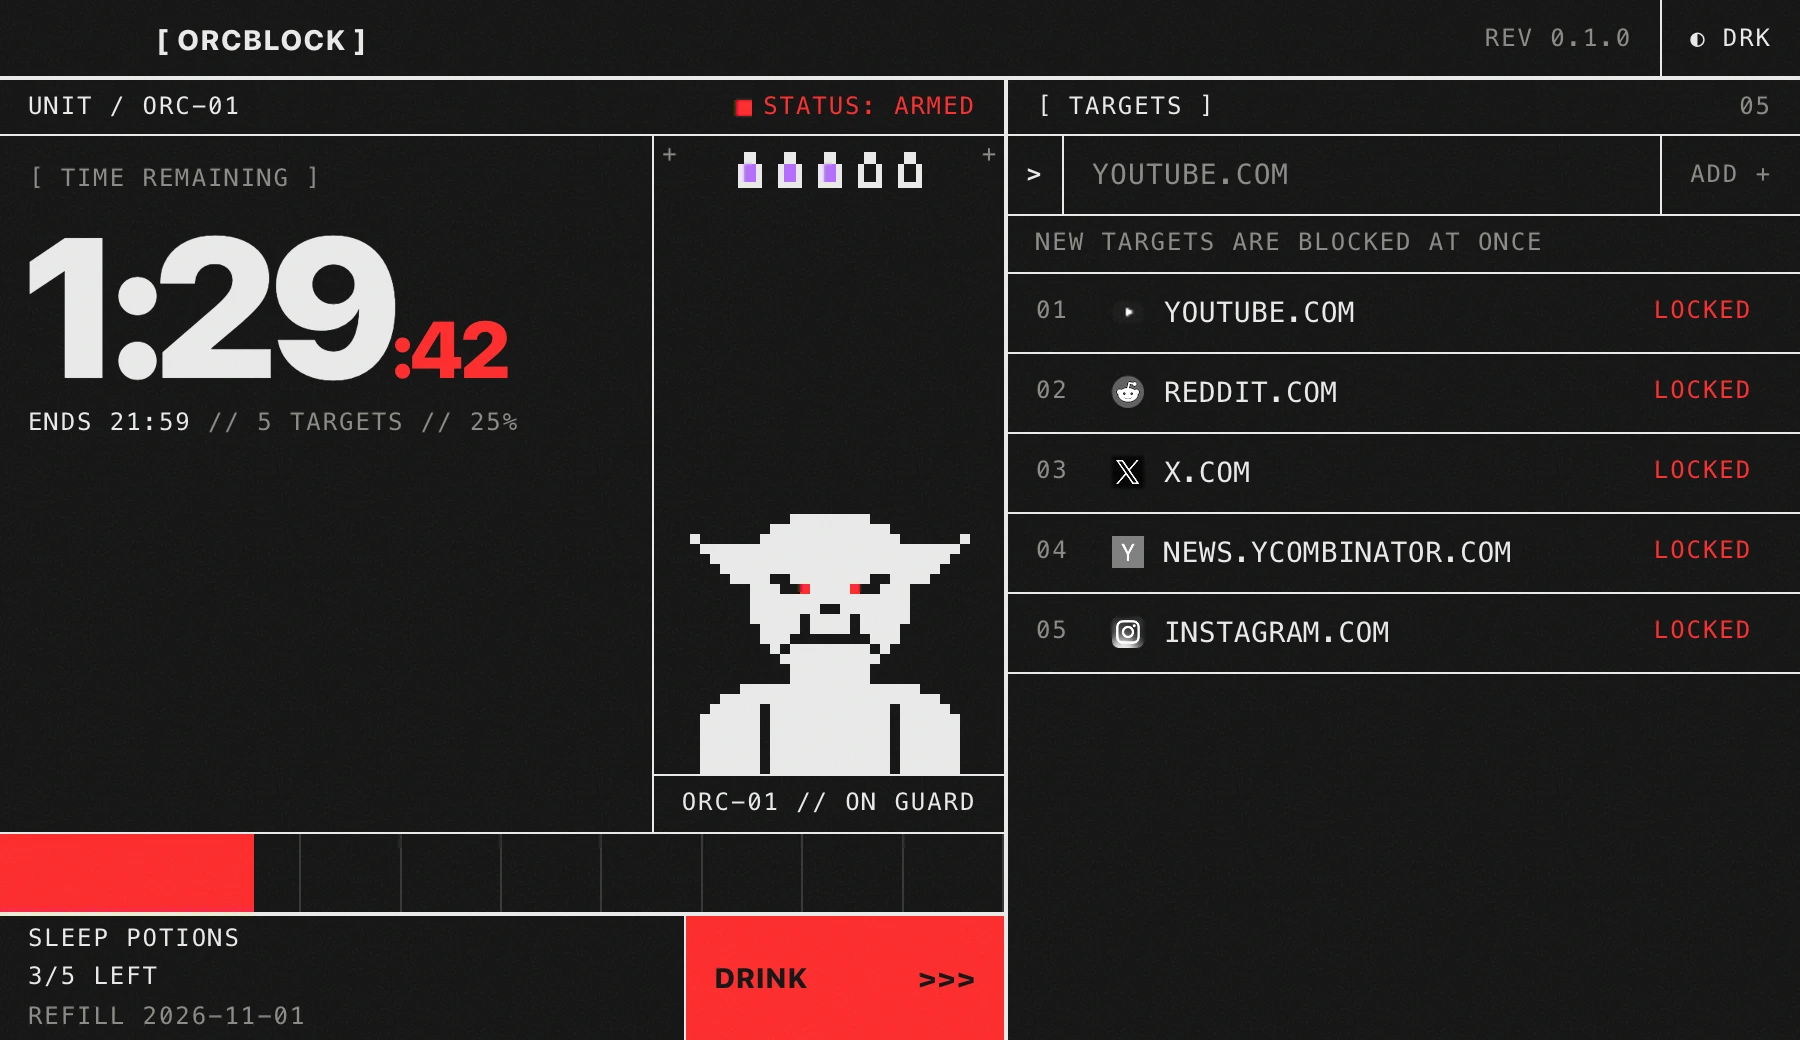
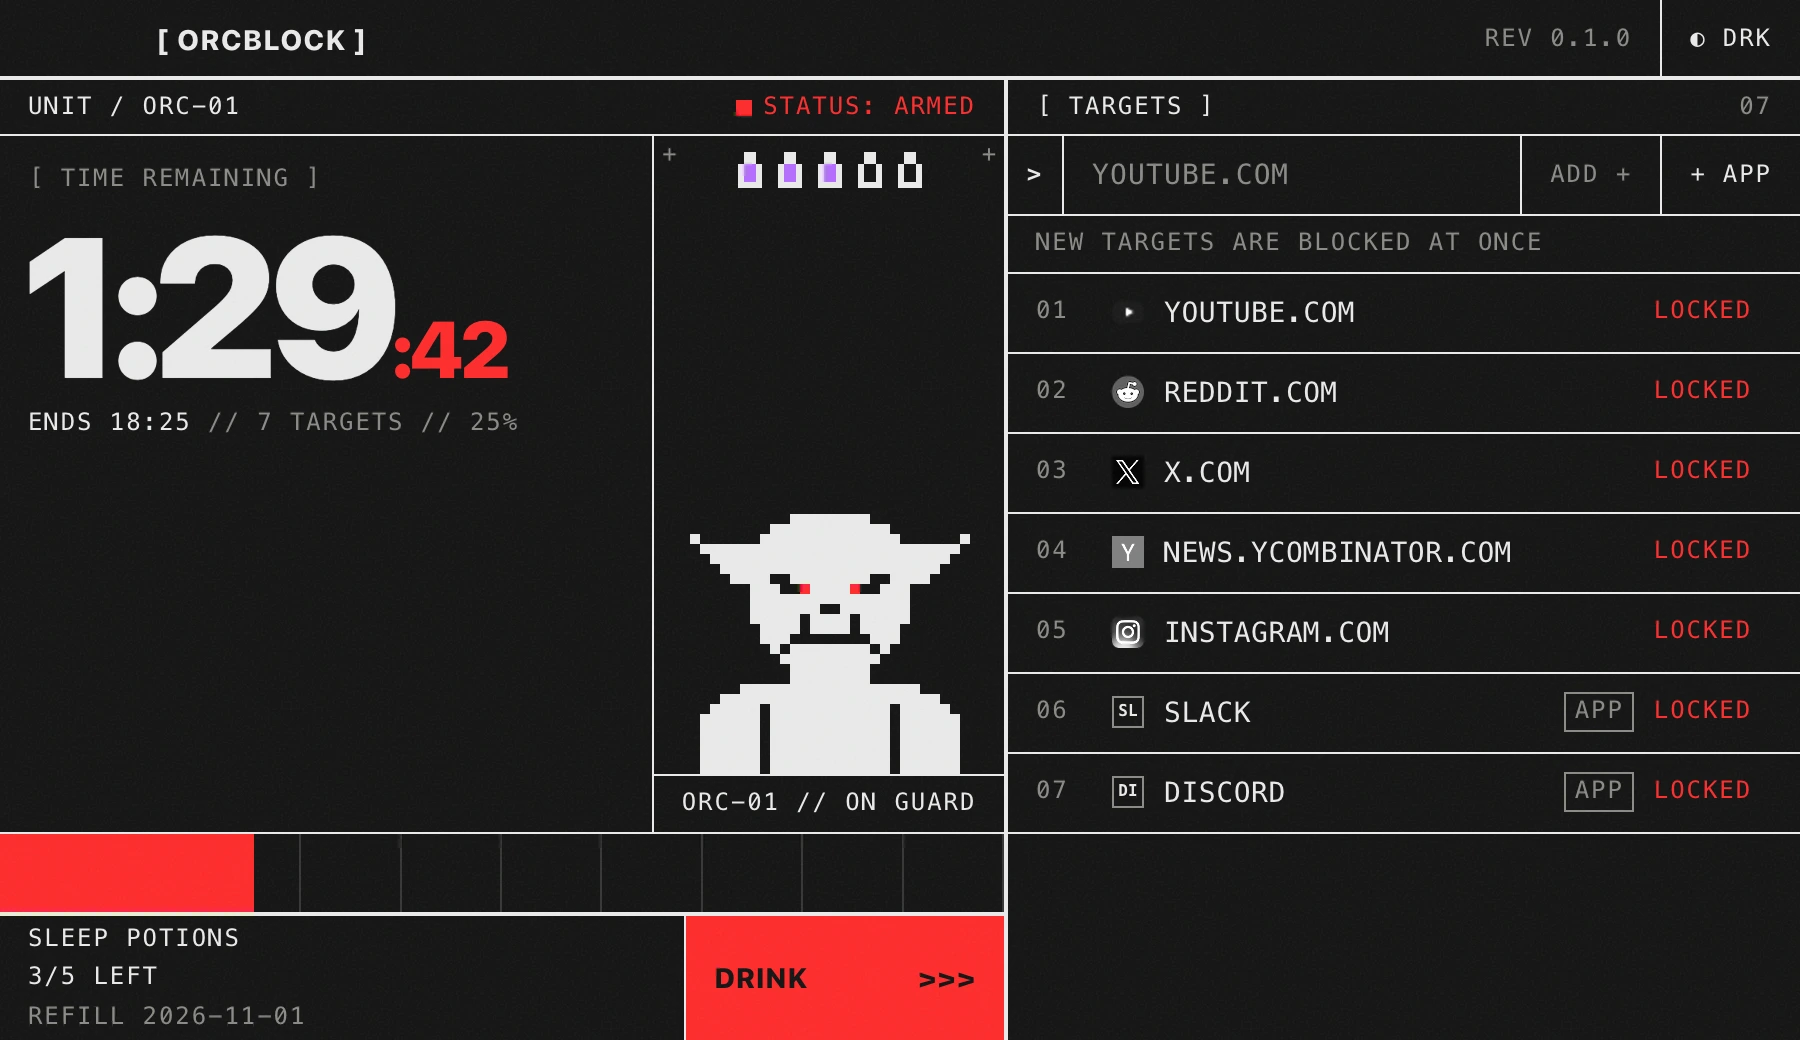
feat(ui): mention apps on the website
The site still said it blocks websites only. The copy, the page meta and
the screenshots now show apps on the list too.

diff --git a/website/index.html b/website/index.html
@@ -5,16 +5,16 @@
     <meta name="viewport" content="width=device-width, initial-scale=1.0" />
     <meta name="theme-color" content="#f4f4f0" />
     <script src="/theme.js"></script>
-    <title>OrcBlock: a website blocker you can't talk your way out of</title>
+    <title>OrcBlock: a site and app blocker you can't talk your way out of</title>
     <meta
       name="description"
-      content="Pick the sites, pick the time, and an orc stands guard until it's over. Free website blocker for macOS. The only way out early: one of five sleep potions a month."
+      content="Pick the sites and apps, pick the time, and an orc stands guard until it's over. Free site and app blocker for macOS. The only way out early: one of five sleep potions a month."
     />
     <meta property="og:type" content="website" />
     <meta property="og:title" content="OrcBlock" />
     <meta
       property="og:description"
-      content="A website blocker for macOS that you can't talk your way out of."
+      content="A site and app blocker for macOS that you can't talk your way out of."
     />
     <link rel="icon" type="image/png" sizes="32x32" href="../app/src-tauri/icons/32x32.png" />
     <link rel="apple-touch-icon" href="../app/src-tauri/icons/128x128@2x.png" />
@@ -23,7 +23,7 @@
     <div id="site"></div>
     <noscript>
       <p>
-        OrcBlock is a website blocker for macOS.
+        OrcBlock is a site and app blocker for macOS.
         <a href="https://github.com/orcrobert/orcblock/releases/latest/download/OrcBlock.dmg"
           >Download for macOS</a
         >

diff --git a/website/src/components/HowItWorks.svelte b/website/src/components/HowItWorks.svelte
@@ -4,8 +4,8 @@
 
   const STEPS = [
     {
-      title: "List the sites",
-      body: "Paste a link or type a name. A YouTube video link becomes youtube.com, and every corner of it is covered.",
+      title: "List the sites and apps",
+      body: "Paste a link or type a name. A YouTube video link becomes youtube.com, and every corner of it is covered. Apps come from a list of what's on your Mac.",
     },
     {
       title: "Set the timer",
@@ -13,11 +13,11 @@
     },
     {
       title: "The orc stands guard",
-      body: "The sites stop loading in every browser. Close the app, quit it, restart your Mac: the block is still there when you come back.",
+      body: "The sites stop loading in every browser, and the apps close the moment they open. Close OrcBlock, quit it, restart your Mac: the block is still there when you come back.",
     },
     {
       title: "Wait it out",
-      body: "When the timer hits zero the orc nods off and your sites come back on their own. Nothing to remember to switch off.",
+      body: "When the timer hits zero the orc nods off and your sites and apps come back on their own. Nothing to remember to switch off.",
     },
   ];
 </script>

diff --git a/website/src/components/Potions.svelte b/website/src/components/Potions.svelte
@@ -23,7 +23,7 @@
       ? available === 0
         ? "NO POTIONS LEFT. WAIT IT OUT."
         : "BLOCK RUNNING. THE ORC IS AWAKE."
-      : "BLOCK ENDED. SITES ARE BACK.",
+      : "BLOCK ENDED. EVERYTHING IS BACK.",
   );
 </script>
 
@@ -39,8 +39,8 @@
         <p class="headline">Five<br />a month<span class="potion">.</span></p>
         <p class="lead">
           The one way out early. Drink a sleep potion and the orc nods off on the spot: the block
-          ends and your sites come back. You get five every month, and the shelf fills back up on
-          the 1st.
+          ends and your sites and apps come back. You get five every month, and the shelf fills back
+          up on the 1st.
         </p>
         <p class="lead muted">Spend them wisely. Or try one here, these are free.</p>
       </div>

diff --git a/website/src/components/Hero.svelte b/website/src/components/Hero.svelte
@@ -12,7 +12,7 @@
   const QUIPS = [
     "BACK TO WORK.",
     "NOT TODAY.",
-    "THE SITE IS STILL BLOCKED.",
+    "SLACK CAN WAIT.",
     "POKING ME WON'T HELP.",
     "I DON'T SLEEP. MOSTLY.",
     "GO WRITE SOMETHING.",
@@ -52,7 +52,7 @@
   <div class="page">
     <div class="bar micro">
       <span>UNIT / ORC-01</span>
-      <span class="muted wide">WEBSITE BLOCKER // MACOS</span>
+      <span class="muted wide">SITE + APP BLOCKER // MACOS</span>
       <span class="status"><span class="light" aria-hidden="true"></span>STATUS: ARMED</span>
     </div>
 

diff --git a/website/src/components/MacWindow.svelte b/website/src/components/MacWindow.svelte
@@ -9,7 +9,7 @@
       src={SCREENSHOTS.light}
       width={SCREENSHOTS.width}
       height={SCREENSHOTS.height}
-      alt="The OrcBlock window during a block: time remaining, the orc on guard and the list of blocked sites."
+      alt="The OrcBlock window during a block: time remaining, the orc on guard and the list of blocked sites and apps."
       loading="lazy"
       decoding="async"
     />

diff --git a/website/src/components/FinePrint.svelte b/website/src/components/FinePrint.svelte
@@ -35,7 +35,7 @@
       <div>
         <dt>Does it see what I browse?</dt>
         <dd>
-          No. Your list of sites stays on your Mac and nothing is sent anywhere. The
+          No. Your list of sites and apps stays on your Mac and nothing is sent anywhere. The
           <a href={LINKS.privacy}>privacy page</a> has the whole story.
         </dd>
       </div>
